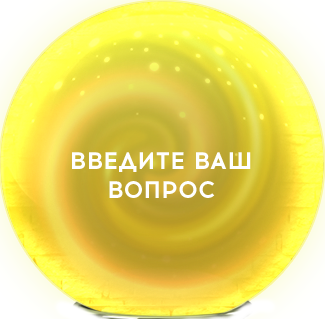
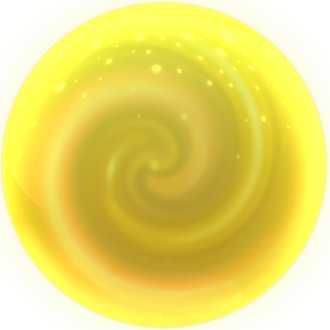
2016-02-26T21:41

diff --git a/frontEnd/js/MagicNormalPictures.js b/frontEnd/js/MagicNormalPictures.js
@@ -7,6 +7,7 @@ function MagicNormalPictures() {
     var animateStop = false ;
     var $resultBlock = $('#resultBlockPhilosophy') ;
     var formShowFlag = false ;
+    var _this = this ;
     //----------------------------------//
     this.init = function() {
         backgroundImg = paramSet.backgroundImage ; // объект - компоненты изображения
@@ -38,14 +39,17 @@ function MagicNormalPictures() {
         var items = pictures['items'] ;
         for (var itemKey in items) {
             var item = items[itemKey];
-            var $pictImg = showItem(dir, borderSize, item);
+            var $pictImg = _this.showItem(dir, borderSize, item, itemKey);
             var rotationBlock = rotationBlockPrepare($pictImg);
             rotationGo(rotationBlock);
         }
     } ;
-    var showItem = function(dir,borderSize,item) {
+    this.showItem = function(dir,borderSize,item,itemKey,substImageFile) {
         var place = item['place'] ;
         var pictureFile = dir + '/' + item['img']['file'] ;
+        if (typeof(substImageFile) === 'string' ) {
+            pictureFile = substImageFile ;
+        }
         var borderFile = dir + '/' + item['img']['border'] ;
         var top = place['y1'] ;
         var left =  place['x1'] ;
@@ -72,11 +76,13 @@ function MagicNormalPictures() {
 
         // для картинки нужен отдельный блок
         var $pictureBlock = $('<div/>') ;
+
         $block.append($pictureBlock) ;
         $pictureBlock.css('position','absolute') ;
         $pictureBlock.css('top',borderSize) ;
         $pictureBlock.css('left',borderSize) ;
         var $pictureImg = $('<img/>') ;
+        $pictureImg.attr('id',itemKey+'_img') ;
         $pictureImg.attr('src',pictureFile) ;
         $pictureImg.css('width',width - 2 * borderSize) ;
         $pictureImg.css('height',height - 2 * borderSize) ;
@@ -92,7 +98,7 @@ function MagicNormalPictures() {
            axis : 'y' ,
            scaleStep: 5,    // % от первоначального размера
            sizeMin : 5,       // мин размер при сжатии изображения - %
-           timeDelay: 50   // время задержки
+           timeDelay: 150   // время задержки
 
        } ;
     } ;
@@ -114,53 +120,33 @@ function MagicNormalPictures() {
         var scaleStep_0 =  rotationBlock.scaleStep ;
         var sizeMin =   rotationBlock.sizeMin ;
         var timeDelay =   rotationBlock.timeDelay;
+        var PI = Math.PI ;
         var scaleMax = 1 ;
-        var scaleMin = sizeMin / 100 ;
-        var scaleStep = scaleStep_0 / 100 ;
-        var currentScale = scaleMax ;
-        var currentScaleSign = -1 ;        // уменьшение размера
+        var phiStep = PI/10 ;
+        var phiMirrorChange = PI/2   ;         // смена отображения
+        var phiMax = PI ;
+        var phi = 0 ;
         var kMirror = 1 ;                  // отображение
+        var mirrorFlag = false ;
+        var currentScale = 1 ;
         var tmpTimer = setInterval(function () {
             if (animateStop) {        //  остановить цикл анимации)
                 clearInterval(tmpTimer);
             }
-            if (currentScaleSign ===  -1) {
-                if (currentScale - scaleStep >= scaleMin) {
-                    currentScale = currentScale - scaleStep ;
-                    $img.css('transform','scaleX(' + (kMirror * currentScale) +')') ;
-                }else {
-                    currentScaleSign  = +1 ;
-                    currentScale = scaleMin ;
-                    kMirror = (-1) * kMirror ;
-                    $img =  $img.css('transform','scaleX(' +
-                                             (kMirror * currentScale) +')') ;  // отображение
-                }
-            } else {
-                if (currentScale + scaleStep <= scaleMax) {
-                    currentScale = currentScale + scaleStep ;
-                    $img.css('transform','scaleX(' + (kMirror * currentScale) +')') ;
-                }else {
-                    currentScaleSign  = -1 ;
-                    currentScale = scaleMax ;
-                }
+            phi += phiStep ;
+            if (phi >= phiMirrorChange && !mirrorFlag  ) {
+                mirrorFlag = true ;
+                phi = phiMirrorChange + phiStep/2  ;
+                kMirror = (-1) * kMirror ;
+            }
+            currentScale =  kMirror * Math.abs(Math.cos(phi)) ;
+            $img.css('transform','scaleX(' + currentScale +')') ;
+            if (phi >= phiMax) {
+                phi = 0 ;
+                mirrorFlag = false ;
 
             }
-
-
         }, timeDelay);
-    } ;
-    var cycleShow = function() {
-        animateStop = false ;
-        var timeDelay = 3000;
-        var tmpTimer = setInterval(function () {
-            if (animateStop) {        //  остановить цикл анимации)
-                clearInterval(tmpTimer);
-            }
-
-            pictureRotate() ;
-        }, timeDelay);
-
-
     } ;
 
 }

diff --git a/frontEnd/js/UserInterface.js b/frontEnd/js/UserInterface.js
@@ -22,6 +22,7 @@ function UserInterface() {
         backgroundImg = paramSet.backgroundImage; // объект - элементы изображения
         scrollBackground = paramSet.scrollBackground;    // "свиток" - фоновое изображение результата
         philosophyForm = paramSet.philosophyForm;
+        philosophyForm.init() ;
         backgroundImg.init();
 
         scrollBackground.init();
@@ -33,40 +34,46 @@ function UserInterface() {
             if (isCentralCircleClick(e)) {
             }
             if (isStampClick(e)) {                   // выполнение запроса
+                if (philosophyForm.getFormShowFlag() === true) {
+                    philosophyForm.stopShow() ;
+                    normalQueryShow() ;
+                } else {
+                    backgroundImg.centralCircleRotate(function() {
+                        currentQuery = $queryArea.val();
+                        var requestGo = paramSet.requestGo;
+                        requestGo.setRequestText(currentQuery);
+                        var auto = true;
+                        requestGo.requestExecute(auto);
+                    }) ;
+                }
 
-                backgroundImg.centralCircleRotate(function() {
-                    currentQuery = $queryArea.val();
-                    var requestGo = paramSet.requestGo;
-                    requestGo.setRequestText(currentQuery);
-                    var auto = true;
-                    requestGo.requestExecute(auto);
-                }) ;
 
             } else {
-                var philosophyForm = paramSet.philosophyForm;
-                philosophyForm.stopShow();
-                backgroundImg.centralCircleShow('query');
-                var idText = backgroundImg.getIdText('query');
-                $queryArea = $('#' + idText);
-                $queryArea.attr('placeholder', 'введите вопрос');
-                $queryArea.val(currentQuery);
-                $queryArea.focus();
+                if (philosophyForm.getFormShowFlag() === true) {
+                    philosophyForm.stopShow();
+                }
+                normalQueryShow() ;
             }
         });
         $(window).on('resize', function () {      // размеры окна браузера
             resize();
         });
+        normalQueryShow() ;
+        smoke.init();
+        smoke.smokeGo();
+        backgroundImg.stampShow() ;
 
+
+    } ;
+    var normalQueryShow = function() {
         backgroundImg.centralCircleShow('query');
         var idText = backgroundImg.getIdText('query');
         $queryArea = $('#' + idText);
-        $('#centralCircleText').removeAttr('hidden') ;
-        $queryArea.removeAttr('hidden') ;
         $queryArea.attr('placeholder', 'введите вопрос');
+        $queryArea.val(currentQuery);
         $queryArea.focus();
-        smoke.init();
-        smoke.smokeGo();
         magicNormalPictures.show() ;
+
 
     } ;
     /**
@@ -86,6 +93,9 @@ function UserInterface() {
                     $queryArea.attr('placeholder', 'введите вопрос');
                     $queryArea.focus();
                     smoke.smokeGo();
+                    backgroundImg.stampShow() ;
+                    magicNormalPictures.show() ;
+
                     resizeGo = false;
                     resizeSteps = 0;
                     philosophyForm.resize() ;

diff --git a/frontEnd/js/BackgroundImg.js b/frontEnd/js/BackgroundImg.js
@@ -27,6 +27,7 @@ function BackgroundImg() {
     var dirPictures ;
     var $centralCircleBlock = $('#centralCircle') ;
     var $centralCircleTextBlock = $('#centralCircleText') ;
+    var $stampBlock = $('#stamp') ;
     var animateStop = false ;
     var _this = this ;
     //------------------------------------//
@@ -42,10 +43,10 @@ function BackgroundImg() {
         centralCircle = {
             dir: dirMainImg,
             place: {
-                x1: 800, //808,
-                y1: 380,
+                x1: 800, //798, //808,
+                y1: 380, //381,
                 x2: 1130,
-                y2: 700
+                y2: 710 // 711
             },
             textArea: {
                 x1: 827,
@@ -56,7 +57,7 @@ function BackgroundImg() {
 
             query: {                               // ценральный круг при вводе запроса
                 idText : 'queryText',
-                ball: 'yellow_ball_clear.png',
+                ball: 'yellow_ball.png',
                 textArea: 'yellow_text_area.png',
                 color: 'black', //'#47d4d9', // 'blue',    // '#11f371',
                 readonly: false
@@ -72,13 +73,16 @@ function BackgroundImg() {
 
         } ;
         stamp = {
+            dir: dirMainImg,
             place: {
-                x1: 806,
-                y1: 682,
-                x2: 1104,
-                y2: 746
+                x1: 808,
+                y1: 678,
+                x2: 1111,
+                y2: 748
+            },
+            img: {
+                file: 'stamp.png'
             }
-
         } ;
 
        clouds = {
@@ -525,8 +529,17 @@ function BackgroundImg() {
     } ;
     this.getStamp = function() {
         var currentStamp = {} ;
+        currentStamp['dir'] = stamp['dir'] ;
         currentStamp['place'] = placeResize(stamp['place']) ;
+        currentStamp['img'] = stamp['img'] ;
         return currentStamp ;
+    } ;
+    this.stampShow = function() {
+        var currentStamp = _this.getStamp() ;
+        var place = currentStamp['place'] ;
+        var dir = currentStamp['dir'] ;
+        var stampPicture = dir +'/' + currentStamp['img']['file'] ;
+        _this.defineAbsolutePosition($stampBlock,place,stampPicture) ;
     } ;
     /**
      * выводит центральный круг по типу

diff --git a/frontEnd/js/PhilosophyForm.js b/frontEnd/js/PhilosophyForm.js
@@ -9,11 +9,15 @@ function PhilosophyForm() {
     var $resultBlock = $('#resultBlockPhilosophy') ;
     var $answerArea ;     // область вывода текста
     var formShowFlag = false ;
+    var magicNormalPictures ;
+    var _this = this ;
     //----------------------------------//
     this.init = function() {
         backgroundImg = paramSet.backgroundImage ; // объект - компоненты изображения
         formAttr = new PhilosophyFormAttr() ;        // объект - атрибуты формы
         formAttr.init() ;
+        magicNormalPictures = paramSet.magicNormalPictures ;
+        formShowFlag = false ;
     } ;
      /**
      * изменить фразу
@@ -27,7 +31,9 @@ function PhilosophyForm() {
        formShowFlag = true ;
        responseShow() ;
     } ;
-
+    this.getFormShowFlag = function() {
+        return formShowFlag ;
+    } ;
     /**
      * прервать вывод
      */
@@ -35,8 +41,8 @@ function PhilosophyForm() {
 //        $resultBlock.empty() ;
         animateStop = true ;
         formShowFlag = false ;
-        magicNormalPictures = paramSet.magicNormalPictures ;
-        magicNormalPictures.show() ;
+
+ //       magicNormalPictures.show() ;
     } ;
     this.resize = function() {
         if (formShowFlag) {
@@ -56,11 +62,15 @@ function PhilosophyForm() {
         $resultBlock.empty() ;
         var pictures = backgroundImg.getPhilosophyPictures() ;
         var dir = pictures['dir'] ;
-        var borderSize = pictures['borderSize'] ;
+        var borderSize = pictures['borderSize'] - 4 ;  // уменьшаем рамку, чтобы избежать просвет
         var items = pictures['items'] ;
         for (var itemKey in items) {
             var item = items[itemKey] ;
-            showItem(dir,item) ;
+            var substName = item['subst'] ;
+            var substFile = formAttr.getPictSubst(substName) ;
+            magicNormalPictures.showItem(dir,borderSize,item,itemKey,substFile) ;
+
+//            showItem(dir,item) ;
         }
         cycleShow() ;
     } ;

diff --git a/frontEnd/js/AjaxRequest.js b/frontEnd/js/AjaxRequest.js
@@ -8,7 +8,7 @@
 function AjaxRequest(sendDataObject,overtimeFunc,requestFunc) {
     var ajaxExecute = paramSet.ajaxExecute;
     var TIME_DELAY = 300;       // задежка при опросе ajax
-    var MAX_STEPS = 12;        // количество опросов ajax
+    var MAX_STEPS = 20;        // количество опросов ajax
     var currentSendData = {};
     var currentOvertimeFunc = overtimeFunc;
     var currentRequestFunc = requestFunc;

diff --git a/frontEnd/js/RequestGo.js b/frontEnd/js/RequestGo.js
@@ -47,8 +47,11 @@ function RequestGo() {
                     _this.automaticallyGo() ;
                 }
             }else {
-                var message = answ['message'];
-                ajax.errorMessage(message) ;
+                if (answ !== false) {
+                    var message = answ['message'];
+                    ajax.errorMessage(message) ;
+                }
+
             }
         }) ;
         ajax.go() ;

diff --git a/index.php b/index.php
@@ -90,6 +90,7 @@ $dirStyle = './frontEnd/styles';
     </div>
     <div id="centralCircleText"></div>
     <div id="smokeClouds"></div>
+    <div id="stamp"></div>
 </div>
 <div id="messages"></div>
 </body>
